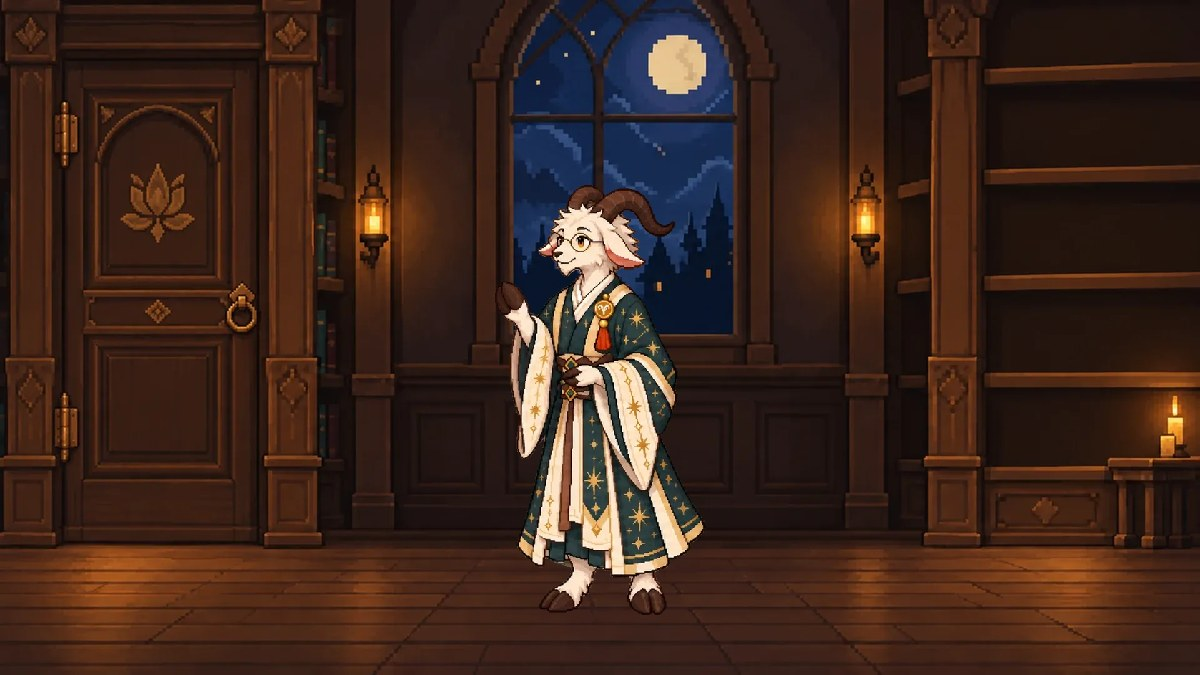
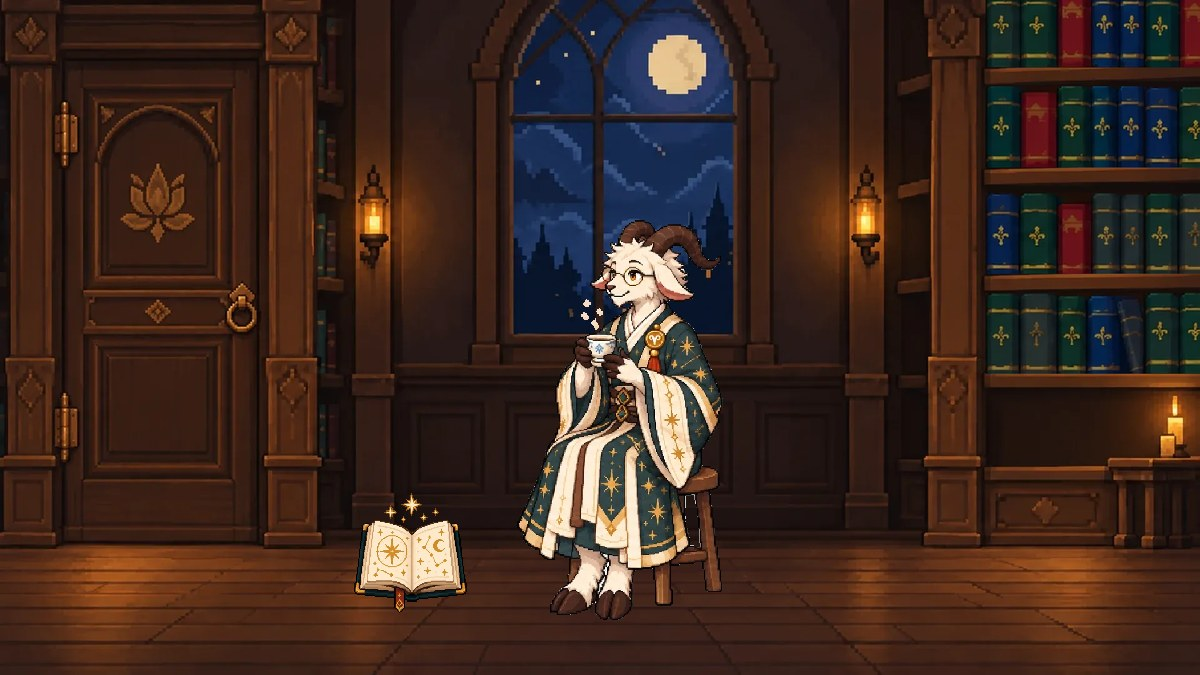
預覽：命運書庫入口只放首頁、改成置中；縮圖改成坐著喝茶＋書架上有書＋一本打開的書；看過的人改在數字列最後放「回命運書庫逛逛」（書的圖示）
Claude-Session: https://claude.ai/code/session_01JeWkyip6BDAuWCmTV3g8hg

diff --git a/layouts/index.html b/layouts/index.html
@@ -60,15 +60,15 @@ h1,h2,h3,h4{text-wrap:balance}p,li{text-wrap:pretty}
 .stats{display:flex;flex-wrap:wrap;gap:8px 22px;margin-top:26px;padding-top:18px;border-top:1px solid rgba(255,255,255,.12);font-size:14px;color:var(--text-light)}
 .stats span b{color:#fff;font-size:17px;margin-right:4px}
 .lib-entry{padding:0 0 56px}
-.lib-mini{padding:0 0 40px}.lib-link{display:inline-flex;align-items:center;gap:8px;color:var(--text-light);font-size:14px;border:1px solid rgba(204,136,84,.4);border-radius:999px;padding:8px 18px}.lib-link:hover{color:#fff;border-color:var(--warm)}
-.lib-card{display:grid;grid-template-columns:1.1fr 1fr;gap:0;background:var(--navy-2);border:1px solid rgba(204,136,84,.35);border-radius:16px;overflow:hidden;color:#fff;text-decoration:none;transition:border-color .15s,transform .15s}
+.lib-card{display:block;max-width:760px;margin:0 auto;background:var(--navy-2);border:1px solid rgba(204,136,84,.35);border-radius:16px;overflow:hidden;color:#fff;text-decoration:none;text-align:center;transition:border-color .15s,transform .15s}
 .lib-card:hover{border-color:var(--warm);transform:translateY(-2px)}
 .lib-img{position:relative;display:block;aspect-ratio:16/9}.lib-img img{width:100%;height:100%;object-fit:cover;image-rendering:pixelated}
 .lib-play{position:absolute;right:16px;bottom:16px;width:58px;height:58px;border-radius:50%;background:rgba(204,136,84,.92);display:flex;align-items:center;justify-content:center;font-size:22px;padding-left:4px;box-shadow:0 6px 20px rgba(0,0,0,.35)}
-.lib-txt{display:flex;flex-direction:column;justify-content:center;gap:10px;padding:28px 32px}
-.lib-h{font-size:24px;font-weight:700;line-height:1.4}.lib-p{color:var(--text-light);font-size:15px;line-height:1.8}
-.lib-btn{align-self:flex-start;margin-top:6px;background:var(--warm);color:#fff;padding:9px 20px;border-radius:8px;font-weight:700;font-size:14px}
-@media(max-width:768px){.lib-entry{padding:0 0 44px}.lib-card{grid-template-columns:1fr}.lib-txt{padding:20px 22px 24px}.lib-h{font-size:20px}}
+.lib-txt{display:flex;flex-direction:column;align-items:center;gap:8px;padding:24px 28px 28px}
+.lib-h{font-size:24px;font-weight:700;line-height:1.4}.lib-p{color:var(--text-light);font-size:15px;line-height:1.8;max-width:30em}
+.lib-btn{margin-top:6px;background:var(--warm);color:#fff;padding:9px 22px;border-radius:8px;font-weight:700;font-size:14px}
+.stat-lib{display:inline-flex;align-items:center;gap:7px;color:#fff;font-size:14px;border-bottom:1px dashed rgba(204,136,84,.7);padding-bottom:1px}.stat-lib:hover{color:var(--warm)}.stat-lib img{width:18px;height:auto;image-rendering:pixelated}
+@media(max-width:768px){.lib-entry{padding:0 0 44px}.lib-txt{padding:18px 20px 22px}.lib-h{font-size:20px}}
 .hero-goat img{width:min(280px,100%);aspect-ratio:1;border-radius:50%;object-fit:cover;margin:0 auto}
 @media(max-width:768px){.hero{padding:40px 0 44px}.hero-inner{grid-template-columns:1fr}.hero-goat{display:none}}
 .svc-wrap{padding:8px 0 72px}
@@ -394,12 +394,12 @@ function renderSite(S) {
   (S.brandTagline ? '<div class="tagline">' + esc(S.brandTagline) + '</div>' : '') +
   '<p class="hero-desc">' + heroDesc + '</p>' +
   '<div class="btns"><a href="/booking/" class="btn btn-primary">預約一對一諮詢</a><a href="' + esc(S.lineUrl||'') + '"' + LINE_ATTR + ' class="btn btn-ghost">先加入 LINE 聊聊</a></div>' +
-  (stats ? '<div class="stats">' + stats + '</div>' : '') +
+  ((stats || LIB_SEEN) ? '<div class="stats">' + stats + (LIB_SEEN ? '<a class="stat-lib" href="/library/"><img src="/images/library-book-icon.png" alt="" width="18" height="25">回命運書庫逛逛</a>' : '') + '</div>' : '') +
   '</div>' + (photo ? '<div class="hero-goat"><img src="' + esc(photo) + '" alt="' + esc(S.aboutName||'大正') + '的頭像" width="280" height="280"></div>' : '') +
 '</div></section>' +
 
-/* 命運書庫入口（互動動畫，/library/）：沒看過＝大卡片；看過（書庫留下的 dz_seen）或在 LINE 裡打開＝一行小連結 */
-(LIB_SEEN ? '<section class="lib-entry lib-mini section-dark"><div class="container"><a class="lib-link" href="/library/"><span aria-hidden="true">📚</span> 回命運書庫逛逛 →</a></div></section>' :
+/* 命運書庫入口（互動動畫，/library/）：沒看過＝置中的大卡片；看過（書庫留下的 dz_seen）或在 LINE 裡打開＝不放卡片，數字列最後放「回命運書庫逛逛」 */
+(LIB_SEEN ? '' :
 '<section class="lib-entry section-dark"><div class="container"><a class="lib-card" href="/library/">' +
   '<span class="lib-img"><img src="{{ partial "img.html" (dict "src" "/images/library-entry.jpg" "w" 720) }}" alt="住在書庫裡的羊——大正" width="720" height="405" loading="lazy"><span class="lib-play" aria-hidden="true">▶</span></span>' +
   '<span class="lib-txt"><span class="eyebrow" style="color:var(--warm)">互動動畫</span><span class="lib-h">走進大正的命運書庫</span>' +

diff --git a/layouts/_default/list.html b/layouts/_default/list.html
@@ -18,15 +18,9 @@
   <div class="container blog-wrap">
     <div class="bsb-head"><h2 id="startH">第一次來？從這幾篇開始</h2><p>還不熟紫微斗數的話，先讀這幾篇，之後再依主題找。</p></div>
     <ol class="bsb-list">
-      <li class="bsb-lib"><a href="/library/"><span class="bsb-img"><img src="{{ partial "img.html" (dict "src" "/images/library-entry.jpg" "w" 600) }}" alt="" loading="lazy"><span class="bsb-play" aria-hidden="true">▶</span></span><span class="bsb-t" id="libT">先看動畫：走進大正的命運書庫</span><span class="bsb-d" id="libD">住在書庫裡的羊，帶你翻翻命理小知識。點一點就能看。</span></a></li>
       {{ range $i, $p := . }}<li><a href="{{ $p.RelPermalink }}"><span class="bsb-n">{{ add $i 1 }}</span><span class="bsb-t">{{ $p.Title }}</span>{{ with $p.Description }}<span class="bsb-d">{{ . }}</span>{{ end }}</a></li>{{ end }}</ol>
   </div>
 </section>
-<script>(function(){ /* 看過命運書庫（或在 LINE 裡打開）就換成「回到命運書庫」；預覽用 ?seen=1／?seen=0 */
-  var q=/[?&]seen=([01])/.exec(location.search),seen=false;
-  if(q)seen=q[1]==='1';else if(/Line\//i.test(navigator.userAgent))seen=true;else{try{seen=localStorage.getItem('dz_seen')==='1'}catch(e){}}
-  if(!seen)return;var t=document.getElementById('libT'),d=document.getElementById('libD');
-  if(t)t.textContent='回到命運書庫';if(d)d.textContent='上次沒看完、想再翻翻別本書，都可以從這裡回去。';})();</script>
 {{ end }}
 <div class="container blog-wrap blog-layout">
   {{ partial "blog-sidebar.html" . }}

diff --git a/layouts/partials/blog-css.html b/layouts/partials/blog-css.html
@@ -90,10 +90,6 @@
 .bsb-n{grid-row:span 2;width:34px;height:34px;border-radius:50%;background:var(--warm);color:#fff;font-weight:700;display:flex;align-items:center;justify-content:center;font-size:15px}
 .bsb-t{font-weight:700;font-size:15.5px;line-height:1.5}
 .bsb-d{grid-column:2;font-size:13px;line-height:1.6;color:var(--text-muted);display:-webkit-box;-webkit-line-clamp:2;-webkit-box-orient:vertical;overflow:hidden}
-.bsb-lib a{grid-template-columns:1fr;padding:0;overflow:hidden;border-color:#e2c39f}
-.bsb-lib .bsb-t,.bsb-lib .bsb-d{grid-column:1;padding:0 16px}.bsb-lib .bsb-t{padding-top:12px}.bsb-lib .bsb-d{padding-bottom:14px}
-.bsb-img{position:relative;display:block;aspect-ratio:16/9;background:#2b2118}.bsb-img img{width:100%;height:100%;object-fit:cover;image-rendering:pixelated;display:block}
-.bsb-play{position:absolute;right:12px;bottom:12px;width:44px;height:44px;border-radius:50%;background:rgba(204,136,84,.92);color:#fff;display:flex;align-items:center;justify-content:center;font-size:17px;padding-left:3px}
 /* 第一次來：主題頁側欄最上面 */
 .side-start-box{background:#fbf3ea;border-color:#eedcc6}
 .side-start-h{font-size:14px;font-weight:700;color:var(--navy);padding:10px 16px 2px;margin:0}
